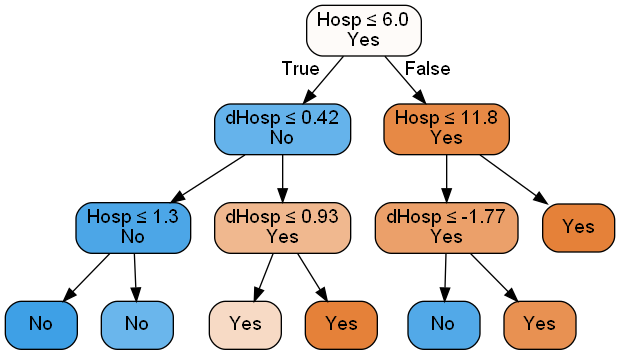
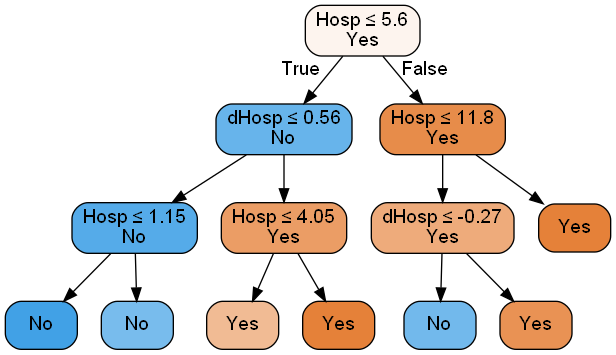
decision tree evaluated

diff --git a/covid_prediction/cross_validation.py b/covid_prediction/cross_validation.py
@@ -69,12 +69,11 @@ class NeuralNetCVSummary(_CrossValidSummary):
 class DecTreeCVSummary(_CrossValidSummary):
     """ results of decision tree cross-validation """
 
-    def __init__(self, n_features, max_depth):
-        # TODO: max_depth is a parameter that could be optimized through cross-validation,
-        #   what are the other parameters of decision trees that should be optimized?
+    def __init__(self, n_features, max_depth, ccp_alpha):
 
         super().__init__(n_features=n_features)
         self.maxDepth = max_depth
+        self.ccpAlpha = ccp_alpha
 
 
 class _CrossValidator:
@@ -109,14 +108,14 @@ class _CrossValidator:
             estimator=model, method=self.featureSelection, num_fs_wanted=self.nFeatures)
 
         # cross-validation
-        cv_score_list = cross_val_score(estimator=model,
-                                        X=self.preProcessedData.selectedX,
-                                        y=self.preProcessedData.y,
-                                        cv=self.cvFold,
-                                        scoring=self.scoring)
+        cv_scores = cross_val_score(estimator=model,
+                                    X=self.preProcessedData.selectedX,
+                                    y=self.preProcessedData.y,
+                                    cv=self.cvFold,
+                                    scoring=self.scoring)
 
         # store the performance of this specification
-        self.performanceSummary.add_cv_performance(scores=cv_score_list,
+        self.performanceSummary.add_cv_performance(scores=cv_scores,
                                                    deci=2,
                                                    selected_features=self.preProcessedData.selectedFeatureNames)
 
@@ -165,7 +164,7 @@ class DecTreeCrossValidator(_CrossValidator):
     """ class to run cross validation on a decision tree model """
 
     def __init__(self, preprocessed_data, feature_selection_method, cv_fold, scoring, n_features_wanted,
-                 max_depth):
+                 max_depth, ccp_alpha):
         """
         :param preprocessed_data: (PreProcessor)
         :param n_features_wanted: (int)
@@ -173,6 +172,7 @@ class DecTreeCrossValidator(_CrossValidator):
         :param cv_fold: (int) number of cross validation folds
         :param scoring: (string) from: https://scikit-learn.org/stable/modules/model_evaluation.html#scoring-parameter
         :param max_depth: (int) maximum depth of the decision tree
+        :param ccp_alpha: (float) Complexity parameter used for Minimal Cost-Complexity Pruning
         """
 
         _CrossValidator.__init__(self,
@@ -182,16 +182,17 @@ class DecTreeCrossValidator(_CrossValidator):
                                  cv_fold=cv_fold, scoring=scoring)
 
         self.maxDepth = max_depth
+        self.ccpAlpha = ccp_alpha
 
     def go(self):
         """ performs cross validation and calculates the scores """
 
         # make a performance object
         self.performanceSummary = DecTreeCVSummary(
-            n_features=self.nFeatures, max_depth=self.maxDepth)
+            n_features=self.nFeatures, max_depth=self.maxDepth, ccp_alpha=self.ccpAlpha)
 
         # construct a decision tree model
-        model = DecisionTreeClassifier(max_depth=self.maxDepth, random_state=0)
+        model = DecisionTreeClassifier(max_depth=self.maxDepth, ccp_alpha=self.ccpAlpha, random_state=0)
 
         # perform cross validation on this model
         self._do_cross_validation(model=model)
@@ -335,7 +336,7 @@ class DecTreeParameterOptimizer(_ParameterOptimizer):
     """ class to find the optimal parameters for a decision tree using cross validation """
 
     def __init__(self, df, feature_names, outcome_name, if_outcome_binary,
-                 list_of_n_features_wanted, list_of_max_depths,
+                 list_of_n_features_wanted, list_of_max_depths, list_of_ccp_alphas,
                  feature_selection_method, cv_fold, scoring=None):
         """
         :param df: (panda DataFrame)
@@ -344,6 +345,7 @@ class DecTreeParameterOptimizer(_ParameterOptimizer):
         :param if_outcome_binary: (bool) if outcome is binary
         :param list_of_n_features_wanted: (list) of number of features wanted
         :param list_of_max_depths: (list) of maximum depths
+        :param list_of_ccp_alphas: (list) of ccp alphas
         :param feature_selection_method: (string) 'rfe', 'lasso', or 'pi'
         :param cv_fold: (int) number of cross validation folds
         :param scoring: (string) from: https://scikit-learn.org/stable/modules/model_evaluation.html#scoring-parameter
@@ -357,12 +359,13 @@ class DecTreeParameterOptimizer(_ParameterOptimizer):
 
         for n_fs in list_of_n_features_wanted:
             for max_depth in list_of_max_depths:
-                self.crossValidators.append(
-                    DecTreeCrossValidator(
-                        preprocessed_data=self.preprocessedData,
-                        feature_selection_method=feature_selection_method,
-                        n_features_wanted=n_fs, cv_fold=cv_fold,
-                        scoring=scoring, max_depth=max_depth))
+                for alpha in list_of_ccp_alphas:
+                    self.crossValidators.append(
+                        DecTreeCrossValidator(
+                            preprocessed_data=self.preprocessedData,
+                            feature_selection_method=feature_selection_method,
+                            n_features_wanted=n_fs, cv_fold=cv_fold,
+                            scoring=scoring, max_depth=max_depth, ccp_alpha=alpha))
 
     def find_best_parameters(self, run_in_parallel=False, save_to_file_performance=None, save_to_file_features=None):
         """ find the best specification for the neural network model
@@ -377,13 +380,13 @@ class DecTreeParameterOptimizer(_ParameterOptimizer):
 
         # find the best specification
         best_spec = None
-        max_r2 = float('-inf')
-        summary = [['# features', 'max depth', 'Score', 'Score and PI']]
+        max_score = float('-inf')
+        summary = [['# features', 'max depth', 'ccp alpha', 'Score', 'Score and PI']]
         for s in self.crossValidationSummaries:
-            summary.append([s.nFeatures, s.maxDepth, s.meanScore, s.formattedMeanPI])
-            if s.meanScore > max_r2:
+            summary.append([s.nFeatures, s.maxDepth, s.ccpAlpha, s.meanScore, s.formattedMeanPI])
+            if s.meanScore > max_score:
                 best_spec = s
-                max_r2 = s.meanScore
+                max_score = s.meanScore
 
         self._save_results(summary=summary, best_spec=best_spec,
                            save_to_file_performance=save_to_file_performance,
@@ -392,13 +395,14 @@ class DecTreeParameterOptimizer(_ParameterOptimizer):
         return best_spec
 
     @staticmethod
-    def evaluate_on_validation_set(df_training, df_validation, selected_features, y_name, max_depth):
+    def evaluate_tree_on_validation_set(df_training, df_validation, selected_features, y_name, max_depth, ccp_alpha):
         """
         :param df_training:
         :param df_validation:
         :param selected_features:
         :param y_name:
         :param max_depth:
+        :param ccp_alpha:
         :return: the trained model (with performance calculated on the validation dataset)
         """
 
@@ -406,7 +410,7 @@ class DecTreeParameterOptimizer(_ParameterOptimizer):
         model = DecisionTree(df=df_training, feature_names=selected_features, y_name=y_name)
 
         # train the model
-        model.run(max_depth=max_depth, df_validation=df_validation)
+        model.run(max_depth=max_depth, ccp_alpha=ccp_alpha, df_validation=df_validation)
 
         # return the trained model
         return model

diff --git a/covid_prediction/optimize_parameters.py b/covid_prediction/optimize_parameters.py
@@ -70,14 +70,16 @@ def get_neural_net_best_spec(outcome_name, week, model_spec, noise_coeff, bias_d
     return best_spec
 
 
-def optimize_and_eval_dec_tree(model_spec, list_of_max_depths, feature_selection, cv_fold, if_parallel=False):
+def optimize_and_eval_dec_tree(model_spec, list_of_max_depths, list_of_ccp_alphas,
+                               feature_selection, cv_fold, if_parallel=False, shorten_feature_names=None):
     """
     :param model_spec: (ModelSpec) model specifications
     :param list_of_max_depths: (list) of maximum depths
+    :param list_of_ccp_alphas: (list) of ccp alphas
     :param feature_selection: (string) feature selection method
     :param cv_fold: (int) number of cross validation folds
     :param if_parallel: (bool) set True to run code in parallel
-    :return: the final model performance
+    :return: (best specification, the final model performance)
     """
 
     # number of features
@@ -101,6 +103,7 @@ def optimize_and_eval_dec_tree(model_spec, list_of_max_depths, feature_selection
         if_outcome_binary=True,
         list_of_n_features_wanted=model_spec.listNumOfFeaturesWanted,
         list_of_max_depths=list_of_max_depths,
+        list_of_ccp_alphas=list_of_ccp_alphas,
         feature_selection_method=feature_selection,
         cv_fold=cv_fold,
         scoring='accuracy')
@@ -114,11 +117,18 @@ def optimize_and_eval_dec_tree(model_spec, list_of_max_depths, feature_selection
     )
 
     # train the model model and evaluate it on the validation dataset
-    final_model = cv.evaluate_on_validation_set(
+    final_model = cv.evaluate_tree_on_validation_set(
         df_training=df_training,
         df_validation=df_validation,
         selected_features=best_spec.selectedFeatures,
         y_name='If hospitalization threshold passed',
-        max_depth=best_spec.maxDepth)
+        max_depth=best_spec.maxDepth,
+        ccp_alpha=best_spec.ccpAlpha)
 
-    return final_model.performanceTest
+    # save the best tree
+    final_model.plot_decision_path(
+        file_name=ROOT_DIR + '/outputs/figures/trees/model-{}.png'.format(model_spec.name),
+        simple=True, class_names=['Yes', 'No'],
+        precision=2, shorten_feature_names=shorten_feature_names)
+
+    return best_spec, final_model.performanceTest

diff --git a/EvalDecTrees.py b/EvalDecTrees.py
@@ -10,6 +10,7 @@ OUTCOMES = 'If hospitalization threshold passed'
 CV_FOLD = 20         # num of splits for cross validation
 IF_PARALLEL = False
 MAX_DEPTHS = [3, 4, 5]
+ALPHAS = [0, 0.01, 0.02, 0.03, 0.04, 0.05]
 FEATURE_SELECTION = 'pi'  # could be 'rfe', 'lasso', or 'pi'
 
 
@@ -20,23 +21,28 @@ def evaluate(noise_coeff):
     """
 
     # make prediction at different weeks
-    rows = [['Model', 'Score', 'PI', 'Formatted PI']]
+    rows = [['Model', 'CV-Score', 'CV-PI', 'CV-Formatted PI', 'Validation-Accuracy']]
 
     for model in MODELS:
 
         print("Evaluating model {}.".format(model.name))
 
         # model zero assumes no noise or bias
-        best_spec = optimize_and_eval_dec_tree(
-            model_spec=model, list_of_max_depths=MAX_DEPTHS,
-            feature_selection=FEATURE_SELECTION, cv_fold=CV_FOLD, if_parallel=IF_PARALLEL)
+        best_spec, final_model_performance = optimize_and_eval_dec_tree(
+            model_spec=model, list_of_max_depths=MAX_DEPTHS, list_of_ccp_alphas=ALPHAS,
+            feature_selection=FEATURE_SELECTION, cv_fold=CV_FOLD, if_parallel=IF_PARALLEL,
+            shorten_feature_names=SHORT_FEATURE_NAMES)
 
         # store outcomes
-        rows.append([model.name, best_spec.meanScore, best_spec.PI, best_spec.formattedMeanPI])
+        rows.append([model.name,
+                     best_spec.meanScore,
+                     best_spec.PI,
+                     best_spec.formattedMeanPI,
+                     final_model_performance.accuracy])
 
-        # print summary of results
-        write_csv(rows=rows,
-                  file_name=ROOT_DIR+'/outputs/prediction_summary/dec_tree/summary.csv')
+    # print summary of results
+    write_csv(rows=rows,
+              file_name=ROOT_DIR+'/outputs/prediction_summary/dec_tree/summary.csv')
 
     # print features by model
 

diff --git a/BuildADecisionTree.py b/BuildADecisionTree.py
@@ -5,7 +5,7 @@ from covid_prediction.prediction_models import DecisionTree
 from definitions import ROOT_DIR
 
 
-def build_a_decision_tree(feature_names, outcome_name, max_depth, fig_filename):
+def build_a_decision_tree(feature_names, outcome_name, max_depth,ccp_alpha, fig_filename):
 
     # read data
     dataset = pd.read_csv(ROOT_DIR + '/outputs/prediction_datasets/week_into_fall/combined_data.csv')
@@ -14,7 +14,7 @@ def build_a_decision_tree(feature_names, outcome_name, max_depth, fig_filename):
     dt = DecisionTree(df=dataset, feature_names=feature_names, y_name=outcome_name)
 
     # train the decision tree
-    dt.run(test_size=0.2, criterion="entropy", max_depth=max_depth)
+    dt.run(test_size=0.2, max_depth=max_depth, ccp_alpha=ccp_alpha)
 
     # report the performance of the decision tree on the testing set
     dt.performanceTest.print()
@@ -31,5 +31,6 @@ if __name__ == '__main__':
         build_a_decision_tree(feature_names=model.features,
                               outcome_name='If hospitalization threshold passed',
                               max_depth=3,
+                              ccp_alpha=0.05,
                               fig_filename=ROOT_DIR+'/outputs/figures/trees/model-{}.png'.format(model.name))
 

diff --git a/covid_prediction/prediction_models.py b/covid_prediction/prediction_models.py
@@ -78,7 +78,7 @@ class DecisionTree(Classifier):
         super().__init__(df, feature_names, y_name)
         self.model = None
 
-    def run(self, criterion="mse", max_depth=None, test_size=0.2, df_validation=None):
+    def run(self, criterion="gini", max_depth=None, ccp_alpha=0, test_size=0.2, df_validation=None):
         """ train the decision tree and store the summary of performance """
 
         X = np.asarray(self.df[self.features])
@@ -95,7 +95,8 @@ class DecisionTree(Classifier):
             x_train, x_test, y_train, y_test = train_test_split(X, y, test_size=test_size, random_state=1)
 
         # fit model
-        self.model = DecisionTreeClassifier(criterion=criterion, max_depth=max_depth, random_state=1)
+        self.model = DecisionTreeClassifier(
+            criterion=criterion, max_depth=max_depth, ccp_alpha=ccp_alpha, random_state=1)
         self.model.fit(X=x_train, y=y_train)
 
         # prediction
